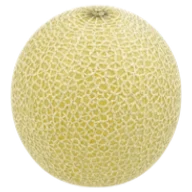
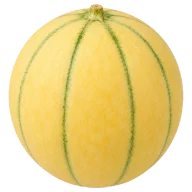
Real pictures for Reggaeton, Etchabi, Ricura, Gladial and Casper (build v30)
Replaces five stand-in variety pictures with their own photographs.

Claude-Session: https://claude.ai/code/session_01BpNz3HWT8SBxVrDERDdRKH

diff --git a/members-portal/app/index.html b/members-portal/app/index.html
@@ -15,7 +15,7 @@
      console is worse than an old copy showing old ones. Keeping the stamp in
      the head lets a device ask the server what it is serving by fetching the
      first two kilobytes instead of all 649. Bump this and nothing else. -->
-<meta name="tipfa-build" content="v29">
+<meta name="tipfa-build" content="v30">
 <meta name="theme-color" content="#405E35">
 <meta name="description" content="TIPFA Crop Calendar — each member farm plans its plantings week by week on the association's master template, and the Secretariat sees every farm's calendar in one place.">
 <link rel="icon" type="image/png" href="assets/brand/tipfa-symbol.png">

diff --git a/tipfa-system/crop-calendar/public/index.html b/tipfa-system/crop-calendar/public/index.html
@@ -15,7 +15,7 @@
      console is worse than an old copy showing old ones. Keeping the stamp in
      the head lets a device ask the server what it is serving by fetching the
      first two kilobytes instead of all 649. Bump this and nothing else. -->
-<meta name="tipfa-build" content="v29">
+<meta name="tipfa-build" content="v30">
 <meta name="theme-color" content="#405E35">
 <meta name="description" content="TIPFA Crop Calendar — each member farm plans its plantings week by week on the association's master template, and the Secretariat sees every farm's calendar in one place.">
 <link rel="icon" type="image/png" href="assets/brand/tipfa-symbol.png">
